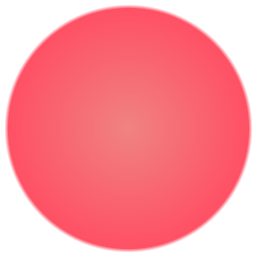
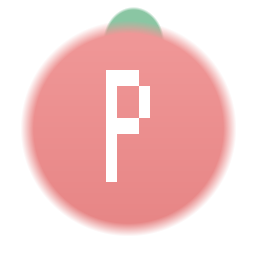
fix: 修复 APK 点击开始不计时的问题
- AudioContext 构造增加 try-catch，WebView 不支持时静默降级
- Notification API 调用增加 typeof 检查和 try-catch
- 同步 www/ 和 Android assets
- 重新编译 Dual-Pomo.apk

diff --git a/pomodoro.html b/pomodoro.html
@@ -774,13 +774,21 @@ var $modeTabs       = document.getElementById('modeTabs');
 // ── Audio ──
 var audioCtx = null;
 function getAudioCtx() {
-  if (!audioCtx) audioCtx = new (window.AudioContext || window.webkitAudioContext)();
+  if (!audioCtx) {
+    try {
+      audioCtx = new (window.AudioContext || window.webkitAudioContext)();
+    } catch(e) {
+      // WebView 中可能不支持 AudioContext，静默降级
+      return null;
+    }
+  }
   return audioCtx;
 }
 function playBeep(freq, duration, type) {
   type = type || 'sine';
   try {
     var ctx = getAudioCtx();
+    if (!ctx) return;  // WebView 不支持 AudioContext
     var osc = ctx.createOscillator();
     var gain = ctx.createGain();
     osc.type = type;
@@ -804,12 +812,23 @@ function notify(title, body) {
     return;
   }
   // 浏览器环境：使用 Web Notification API
-  if (Notification.permission === 'granted') new Notification(title, { body: body });
+  try {
+    if (typeof Notification !== 'undefined' && Notification.permission === 'granted') {
+      new Notification(title, { body: body });
+    }
+  } catch(e) {
+    // WebView 可能不支持 Notification
+  }
 }
 function requestNotification() {
-  // Electron 环境无需请求权限（自动授予）
   if (window.electronAPI && window.electronAPI.isElectron) return;
-  if (Notification.permission === 'default') Notification.requestPermission();
+  try {
+    if (typeof Notification !== 'undefined' && Notification.permission === 'default') {
+      Notification.requestPermission();
+    }
+  } catch(e) {
+    // WebView 可能不支持 Notification API
+  }
 }
 
 // ── Timer Engine ──

diff --git a/www/pomodoro.html b/www/pomodoro.html
@@ -774,13 +774,21 @@ var $modeTabs       = document.getElementById('modeTabs');
 // ── Audio ──
 var audioCtx = null;
 function getAudioCtx() {
-  if (!audioCtx) audioCtx = new (window.AudioContext || window.webkitAudioContext)();
+  if (!audioCtx) {
+    try {
+      audioCtx = new (window.AudioContext || window.webkitAudioContext)();
+    } catch(e) {
+      // WebView 中可能不支持 AudioContext，静默降级
+      return null;
+    }
+  }
   return audioCtx;
 }
 function playBeep(freq, duration, type) {
   type = type || 'sine';
   try {
     var ctx = getAudioCtx();
+    if (!ctx) return;  // WebView 不支持 AudioContext
     var osc = ctx.createOscillator();
     var gain = ctx.createGain();
     osc.type = type;
@@ -804,12 +812,23 @@ function notify(title, body) {
     return;
   }
   // 浏览器环境：使用 Web Notification API
-  if (Notification.permission === 'granted') new Notification(title, { body: body });
+  try {
+    if (typeof Notification !== 'undefined' && Notification.permission === 'granted') {
+      new Notification(title, { body: body });
+    }
+  } catch(e) {
+    // WebView 可能不支持 Notification
+  }
 }
 function requestNotification() {
-  // Electron 环境无需请求权限（自动授予）
   if (window.electronAPI && window.electronAPI.isElectron) return;
-  if (Notification.permission === 'default') Notification.requestPermission();
+  try {
+    if (typeof Notification !== 'undefined' && Notification.permission === 'default') {
+      Notification.requestPermission();
+    }
+  } catch(e) {
+    // WebView 可能不支持 Notification API
+  }
 }
 
 // ── Timer Engine ──